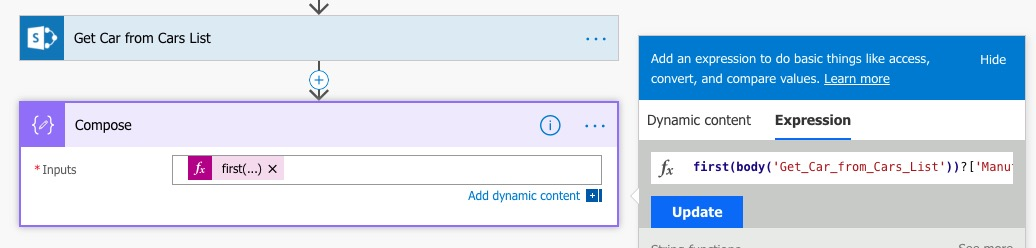
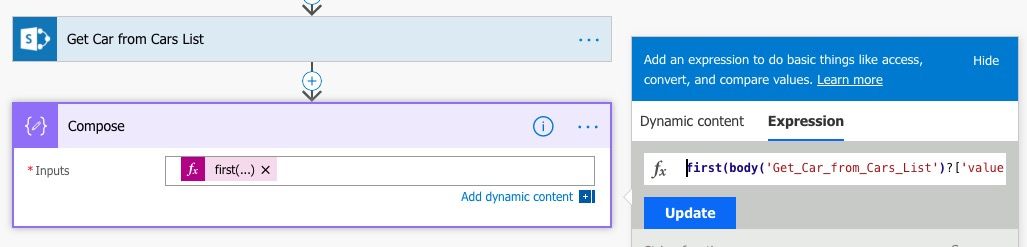
Fix for post

Changed region(s): [[0.0, 0.0, 0.9971, 0.9352], [0.9036, 0.9919, 0.9971, 1.0], [0.6232, 0.9919, 0.7167, 1.0]]

diff --git a/_posts/2018-07-19-unnecessary-applytoeach-splistitems.md b/_posts/2018-07-19-unnecessary-applytoeach-splistitems.md
@@ -32,9 +32,9 @@ This is where an Expression and the First() function comes in, allowing us to re
 The expression used above is in full below
 
 ``` javascript
-first(body('Get_Car_from_Cars_List'))?['Manufacturer']
+first(body('Get_Car_from_Cars_List')?['value'])?['Manufacturer']
 ```
- 
+
  > body references are always the name of the actions but spaces replaced with underscores. Name your actions wisely!
 
 Although this is a very simple example, when we are building Flows it is quite easy for them to become large quite quickly so any way of removing actions is a good thing.
